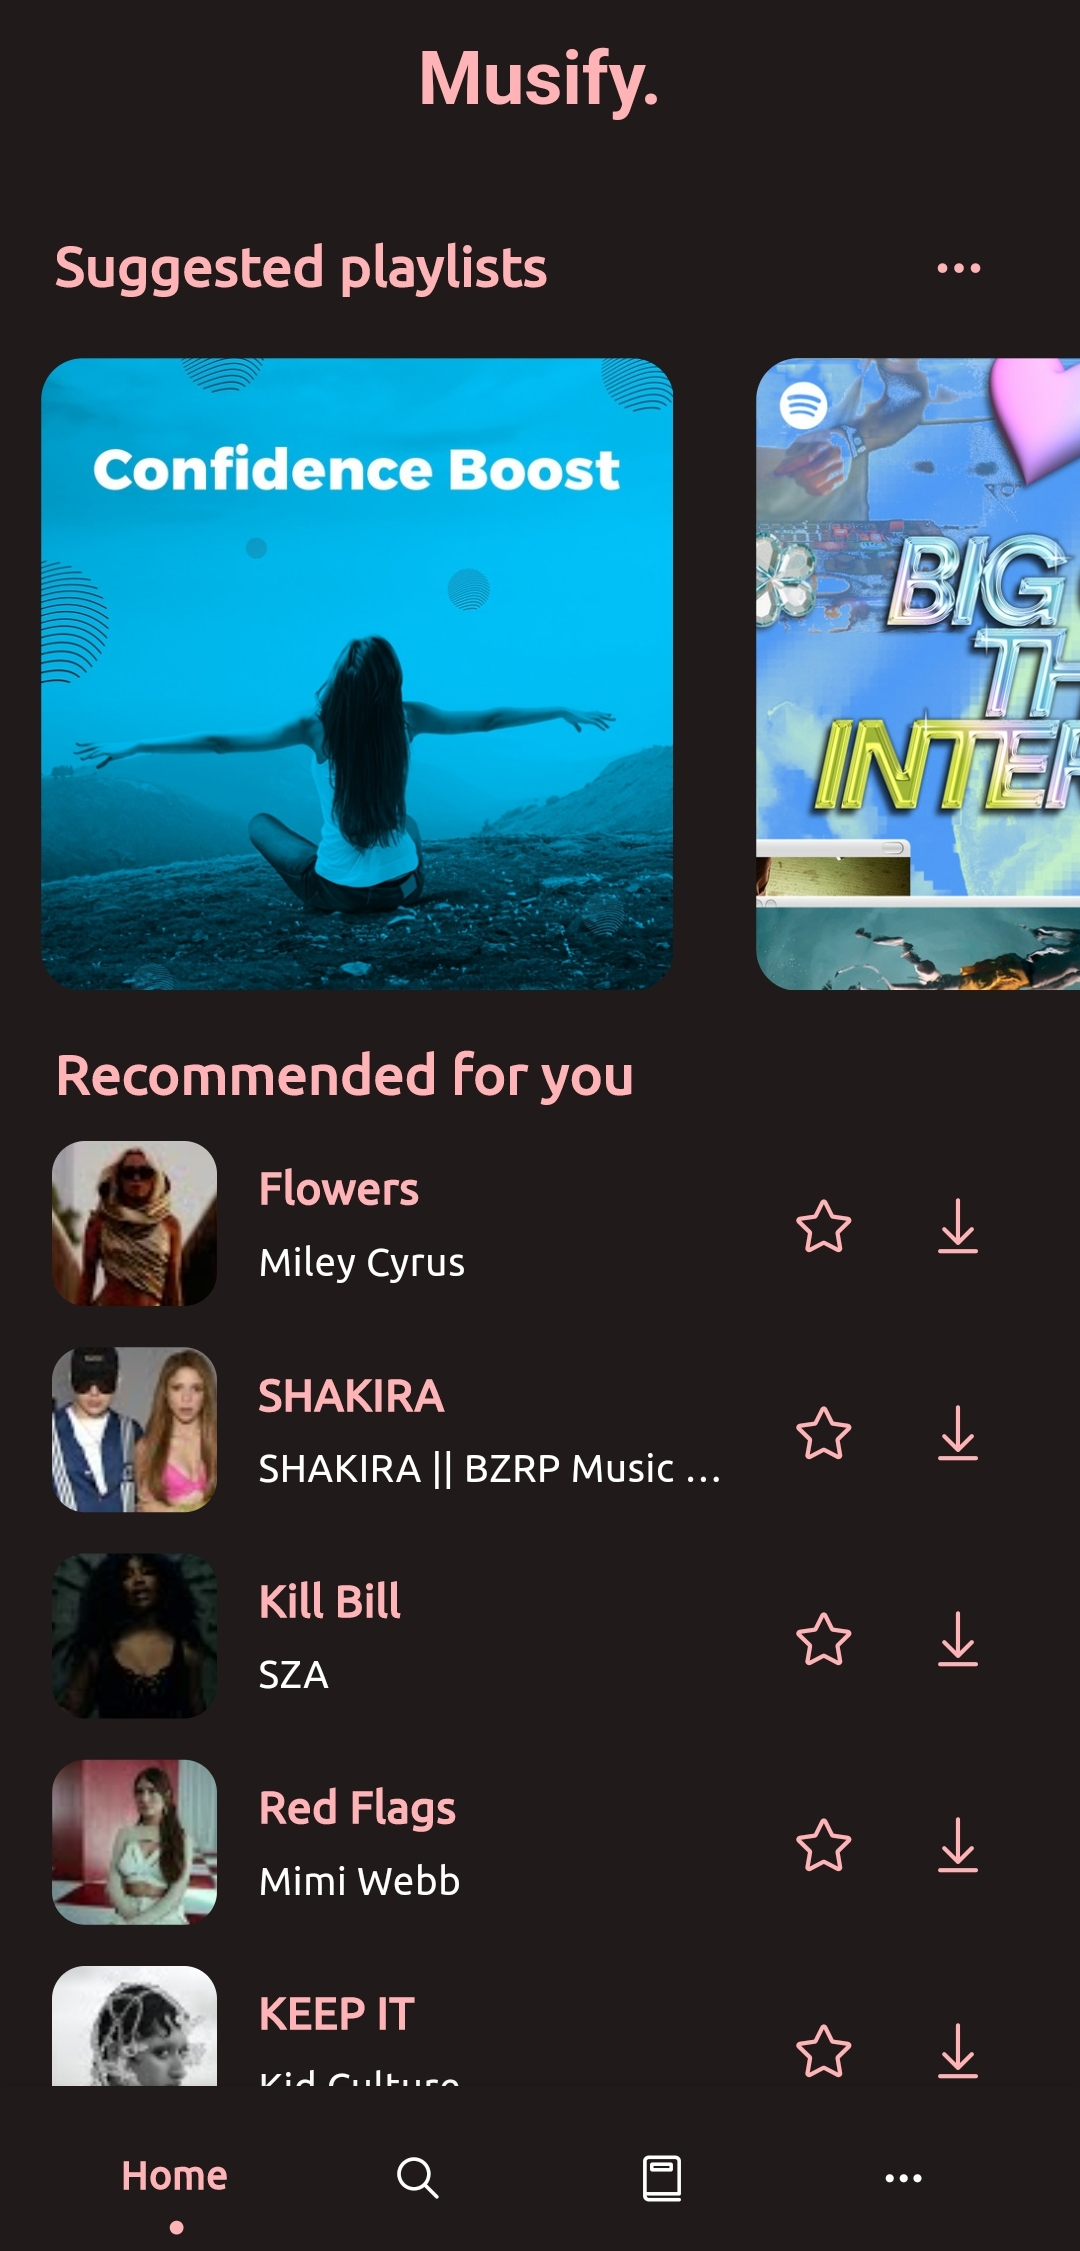
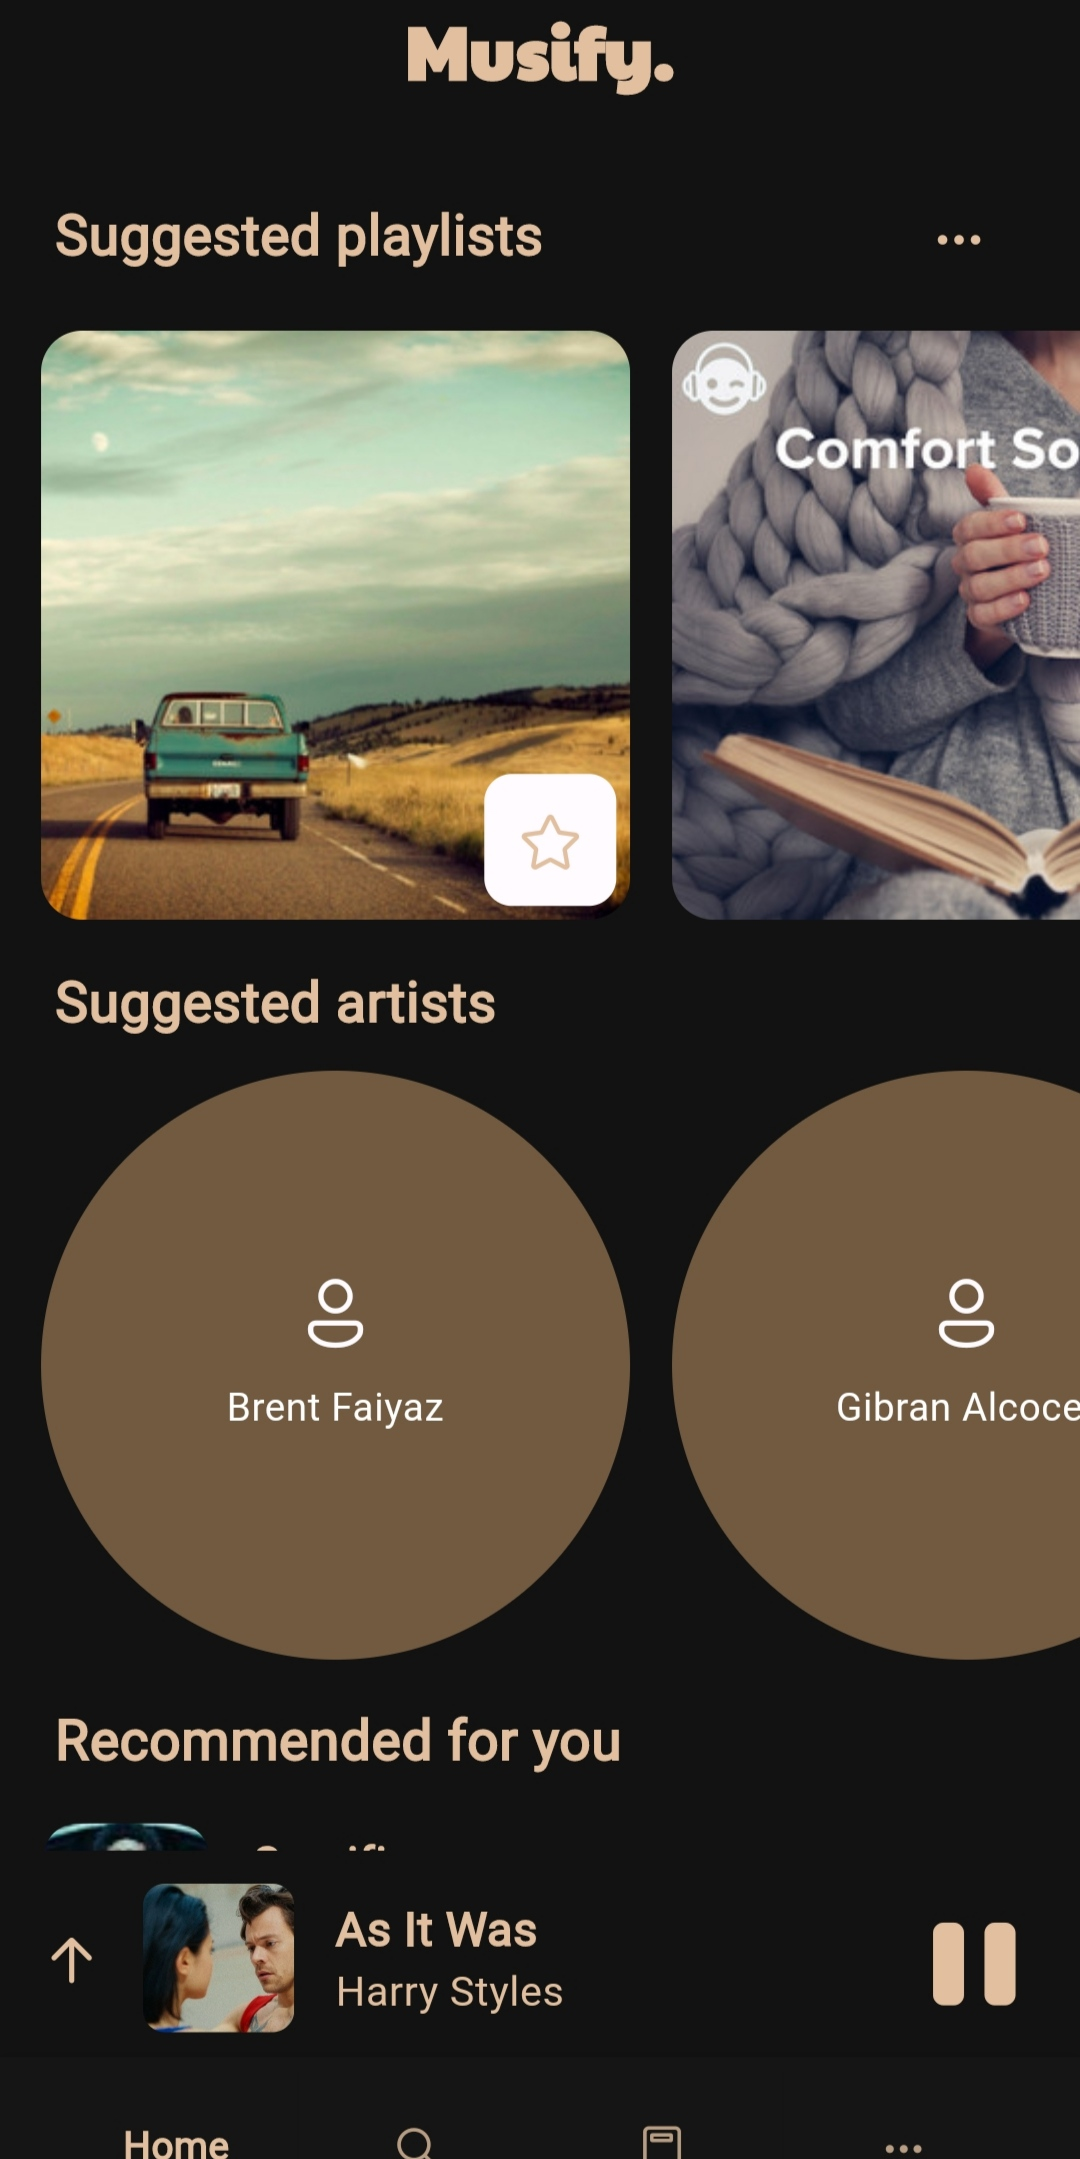
README: Updated screenshots

diff --git a/README.md b/README.md
@@ -38,11 +38,25 @@
 
 <h3 align="center">Screenshots :camera:</h3>
 
-<div align="center" style="width:100%;display:flex;justify-content:space-between;">
-<img width="32%" src="https://raw.githubusercontent.com/gokadzev/Musify/master/fastlane/metadata/android/en-US/images/phoneScreenshots/01.jpg" align="center" alt="screenshot" />
-<img width="32%" src="https://raw.githubusercontent.com/gokadzev/Musify/master/fastlane/metadata/android/en-US/images/phoneScreenshots/02.jpg" align="center" alt="screenshot" />
-<img width="32%" src="https://raw.githubusercontent.com/gokadzev/Musify/master/fastlane/metadata/android/en-US/images/phoneScreenshots/03.jpg" align="center" alt="screenshot" />
+<div align="center">
+  <table>
+    <tr>
+      <td align="center">
+        <img width="100%" src="https://raw.githubusercontent.com/gokadzev/Musify/master/fastlane/metadata/android/en-US/images/phoneScreenshots/01.jpg" alt="screenshot 1">
+      </td>
+      <td align="center">
+        <img width="100%" src="https://raw.githubusercontent.com/gokadzev/Musify/master/fastlane/metadata/android/en-US/images/phoneScreenshots/02.jpg" alt="screenshot 2">
+      </td>
+      <td align="center">
+        <img width="100%" src="https://raw.githubusercontent.com/gokadzev/Musify/master/fastlane/metadata/android/en-US/images/phoneScreenshots/03.jpg" alt="screenshot 3">
+      </td>
+      <td align="center">
+        <img width="100%" src="https://raw.githubusercontent.com/gokadzev/Musify/master/fastlane/metadata/android/en-US/images/phoneScreenshots/04.jpg" alt="screenshot 4">
+      </td>
+    </tr>
+  </table>
 </div>
+
 
 ---
 
